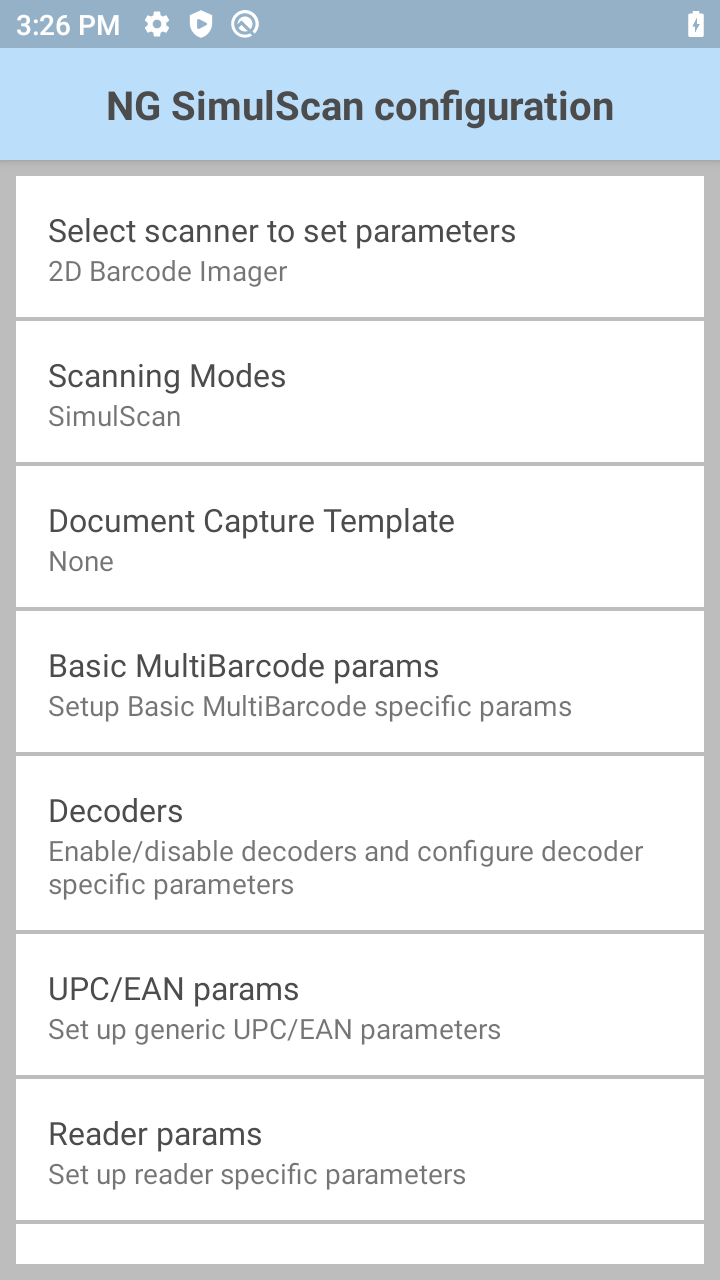
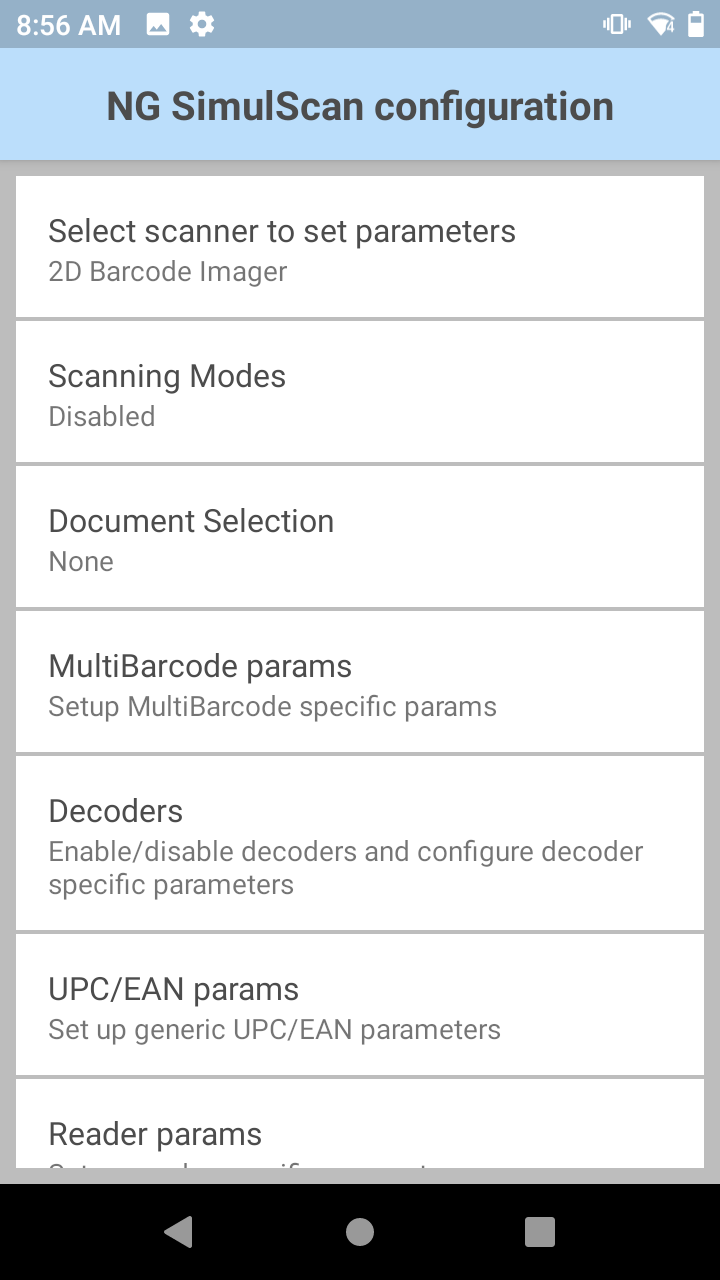
[TUT-44103/TUT-43779] DW 8.2 - Update Document Capture with new features/Remove 8.1 references,update screens

diff --git a/src/datawedge/8-2/guide/input/barcode/index.md b/src/datawedge/8-2/guide/input/barcode/index.md
@@ -129,7 +129,7 @@ _Scanner configuration_
 
 ### Scanning Modes
 
-**Scanning Modes** is used to select the mode to scan barcodes starting with DataWedge 8.1.45: 
+**Scanning Modes** is used to select the mode to scan barcodes: 
 * **Single -** normal mode to scan an individual barcode
 * **UDI -** scan Unique Device Identification (UDI) barcodes such as GS1, HIBCC and ICCBBA
 * **Disabled –** when a scanning mode, such as MultiBarcode or Document Capture, is selected in the **NG SimulScan Configuration** screen, scanning mode in this section is automatically disabled, preventing any other selection. 
@@ -159,8 +159,8 @@ _Scanner configuration_
 ## NextGen SimulScan Configuration
 
 **NextGen (NG) SimulScan Configuration** is configuration transferred from legacy SimulScan Input of DataWedge previously deprecated. Not all legacy SimulScan features are available - migration of these features into NextGen SimulScan is a continuous effort. Currently, the following features are part of NextGen SimulScan:
-* **MultiBarcode -** supported since DataWedge 8.0
-* **Document Capture -** supported since DataWedge 8.0, only available on select devices and scanners
+* **[MultiBarcode](#multibarcodeparams) -** supported since DataWedge 8.0
+* **[Document Capture](#documentselection) -** supported since DataWedge 8.0, only available on select devices and scanners
 <!-- [Removed per TUT-40275]
 * **Signature capture -** supported since DataWedge 7.3
 * **OCR A/B -** supported since DataWedge 7.5 -->
@@ -179,14 +179,13 @@ _DataWedge profile displaying NG SimulScan_
  <img style="height:350px" src="ng_simulscan_configuration.png"/>
 _NextGen (NG) SimulScan configuration_
 
-Aside from **[Scanning Modes](#scanningmodes)**, **[Document Capture](#documentcapture)** and **[MultiBarcode Params](#multibarcodeparams)**, all other options are common to those displayed under **Configure scanner settings**. Refer to the corresponding sections below on each option for further information.
+Aside from **[Scanning Modes](#scanningmodes)**, **[Document Selection](#documentselection)** and **[MultiBarcode Params](#multibarcodeparams)**, all other options are common to those displayed under **Configure scanner settings**. Refer to the corresponding sections below on each option for further information.
 
 ### Scanning Modes
 
 **Scanning Modes** is used to select the mode to scan barcodes: 
-* **Single -** normal mode to scan an individual barcode; this does not exist starting with DataWedge 8.1.45.
-* **[Basic MultiBarcode](#multibarcodeparams)** / **[MultiBarcode](#multibarcodeparams) -** multiple barcodes read in a single scan.  In DataWedge 8.1.45 or higher, this option is displayed as **MultiBarcode.**
-* **[SimulScan](#documentcapturetemplate)** / **[Document Capture](#documentcapturetemplate) -** document capture based on a specified custom template.  In DataWedge 8.1.45 or higher, this option is displayed as **Document Capture.** 
+* **[MultiBarcode](#multibarcodeparams) -** multiple barcodes read in a single scan.  
+* **[Document Capture](#documentselection) -** capture fields within a document or the entire document as an image based on a specified custom template.  
 * **Disabled –** when a scanning mode, such as **Single** or **UDI,** is selected in the **Scanner Configuration** section, scanning mode is automatically disabled in **NG SimulScan Configuration,** preventing any other selection.
 
 **Scanning Modes** exists within both **Scanner Configuration** and **NG SimulScan Configuration** sections. The availability of **Scanning Modes** options is interdependent on the option selected within each section:
@@ -194,15 +193,9 @@ Aside from **[Scanning Modes](#scanningmodes)**, **[Document Capture](#documentc
 * If **Document Capture** or **Multibarcode** is selected for **Scanning Modes** within **NG SimulScan Configuration,** then **Scanning Modes** is disabled within **Scanner Configuration.**
 
 <table>
-
  <tr>
   <td>
     <img style="height:350px" src="ng_simulscan_scanning_modes.png"/>
-  </td>
-  <td> &nbsp; &nbsp; &nbsp; &nbsp;
-  </td>
-  <td>
-    <img style="height:350px" src="scanning_modes_ngss.png"/>
   </td>
   <td> &nbsp; &nbsp; &nbsp; &nbsp;
   </td>
@@ -214,30 +207,30 @@ Aside from **[Scanning Modes](#scanningmodes)**, **[Document Capture](#documentc
 </table>
 <i>NextGen (NG) SimulScan - Scanning Modes</i>
 
-### Document Capture
-Document Capture requires a custom template that designates the areas to capture as an image, such as signature, text fields, or the entire document. Contact Zebra to create a custom Document Capture template.
+### Document Selection
+**Document Selection** specifies the template to use for document capture, in which **Document Capture** is selected as the **Scanning Mode.** Document Capture requires a template that designates the areas to capture as an image, such as signature, text fields, or the entire document. Contact Zebra to create a custom Document Capture template.
 
-#### Document capture with anchor barcode
-Document Capture with anchor barcode captures fields within a document as images, such as addresses and signatures. The barcode determines the position of the fields being captured.
-
-requires a custom template designed with an anchor barcode and designated with the areas to capture as an image, such as text fields in the document. **Document Capture Template** (in DataWedge v8.1 or earlier) or **Document Capture Selection** (in DataWedge 8.1.45 or later) specifies the template to be used for document capture with **SimulScan** or **Document Capture** scanning mode. Once properly configured, scan the anchor barcode to capture the area as an image. Different fields in the document can be captured in separate images. This is useful in situations such as delivery operations, to capture the address and signature in delivery forms as separate images for proof of delivery.   
-
-To configure, in the **NG SimulScan configuration** screen tap on **Document Capture Template** (in DataWedge v8.1 or earlier) or **Document Capture Selection** (in DataWedge 8.1.45 or later) and select a template for the document to be captured. It is required to enable **[Use content providers](../../output/intent/#intentoutputsetup)** option in Intent Output to retrieve scanned data. Refer to **[Import NextGen SimulScan Templates](../../admin)** and **[SimulScan template](/mx/datawedgemgr)** section of DataWedge Manager CSP on how to add a template to this selection. 
+To select the Document Capture template, in the **NG SimulScan configuration** screen tap on **Document Capture Selection** and select a template for the document to be captured. It is required to enable **[Use content providers](../../output/intent/#intentoutputsetup)** option in Intent Output to retrieve scanned data. Refer to **[Import NextGen SimulScan Templates](../../admin)** and **[SimulScan template](/mx/datawedgemgr)** section of DataWedge Manager CSP on how to add a template to this selection. 
 
 <img style="height:350px" src="document_selection.png"/>
 _Document Capture template selection_
 
-Video demonstration about document capture:
+Video demonstration of document capture with anchor barcode:
 <iframe width="560" height="315" src="https://www.youtube.com/embed/MnsS16CnbCY" frameborder="0" allow="accelerometer; encrypted-media; gyroscope; picture-in-picture" allowfullscreen></iframe>
 
-#### Whole Page Document Capture
-Whole Page Document Capture captures the entire document or form as an image upon scanning the barcode. This feature captures the whole page up to the outer border in the field of view.
-Border means black line at the four sides of the white page or white page without borderline placed on the black background where it finds contrast background. 
+#### Document Capture with Anchor Barcode
+Document capture with anchor barcode captures fields within a document as images, such as an address or signature, based on the custom template with barcode that determines the position of the fields being captured. Once properly configured, scan the anchor barcode to capture the specific area as an image. Different fields in the document can be captured in separate images. This is useful in situations such as delivery operations, to capture the address and signature in delivery forms as separate images for proof of delivery.   
 
-The templates available are “WholePage-MandatoryBarcode” and “WholePage-OptionalBarcode”, if this feature is supported by the underlying scanner framework. The mandatory barcode template is used for forms that have at least one barcode. The optional barcode template is used for forms that may or may not have a barcode.
+#### Whole Page Document Capture
+Whole Page Document Capture captures the entire document or form as an image. The entire document can be captured with or without scanning a barcode. This feature captures the entire document up to the surrounding borders in the field of view. The document must have black borders surrounding all four sides or be bordered by a contrasting background. If this requirement is not met, the document cannot be captured.
+
+Two templates are available by default (if supported by the underlying scanner framework): “WholePage-MandatoryBarcode” and “WholePage-OptionalBarcode”. The mandatory barcode template is used for forms that have at least one barcode. The optional barcode template is used for forms that may or may not have a barcode.
+
+<img style="height:350px" src="wholepage-templates.png"/>
+_Document Capture whole page templates_
 
 #### Signature Presence Detection
-When scanning a document with **Document Capture,** DataWedge can detect the presence of a handwritten signature. This feature is useful particularly for delivery or courier services to automatically check if a signature is missing, rather than manually performing the check. This setting is controlled through the Content Provider.  See the [Content Provider programmer's guide](../../programmers-guides/content-provider/#parameters) for more information.
+When scanning a document with **Document Capture,** DataWedge can detect the presence of a handwritten signature. This feature is useful particularly for delivery or courier services to automatically check if a signature is missing, rather than manually performing the check. This setting is controlled through the Content Provider. See [Content Provider programmer's guide](../../programmers-guides/content-provider/#parameters) for more information.
 
 
 ### MultiBarcode Params

diff --git a/src/datawedge/8-2/guide/about/index.md b/src/datawedge/8-2/guide/about/index.md
@@ -145,7 +145,10 @@ For more information about approved languages or to download a localized operati
 
 -----
 ## New in DataWedge 8.2
-* Detect the presence of a handwritten signature with [signature presence detection](../input/barcode/#signaturepresencedetection). 
+* New Document Capture features:
+    * Detect the presence of a handwritten signature with [signature presence detection](../input/barcode/#documentselection). 
+    * Capture the entire document as an image with [whole page document capture](../input/barcode/#documentselection)
+
 
 -----
 ## Recent Version History
